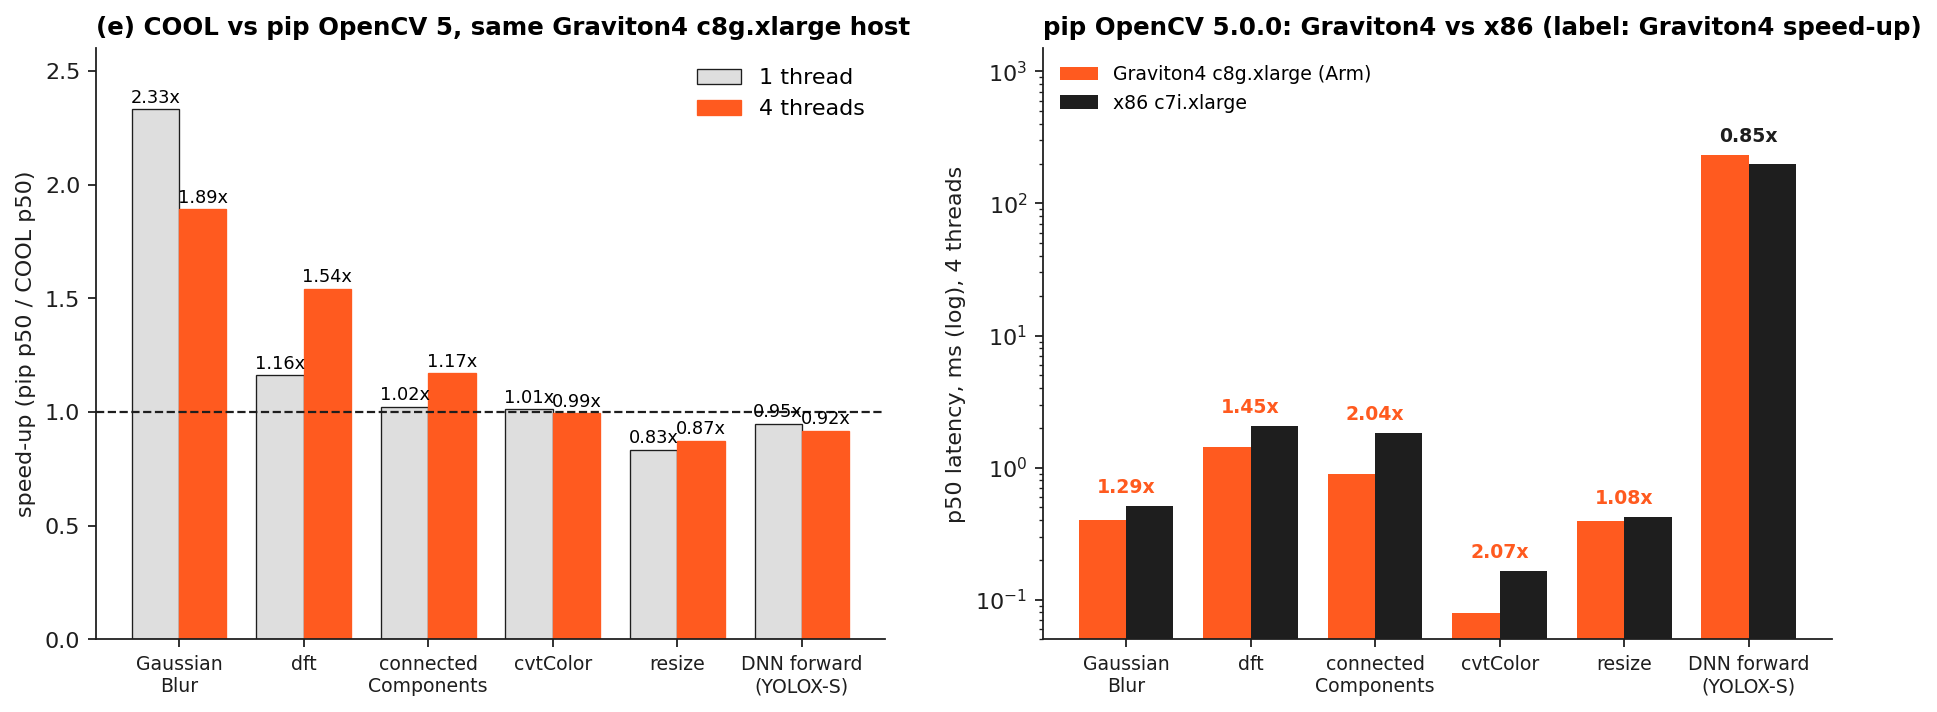
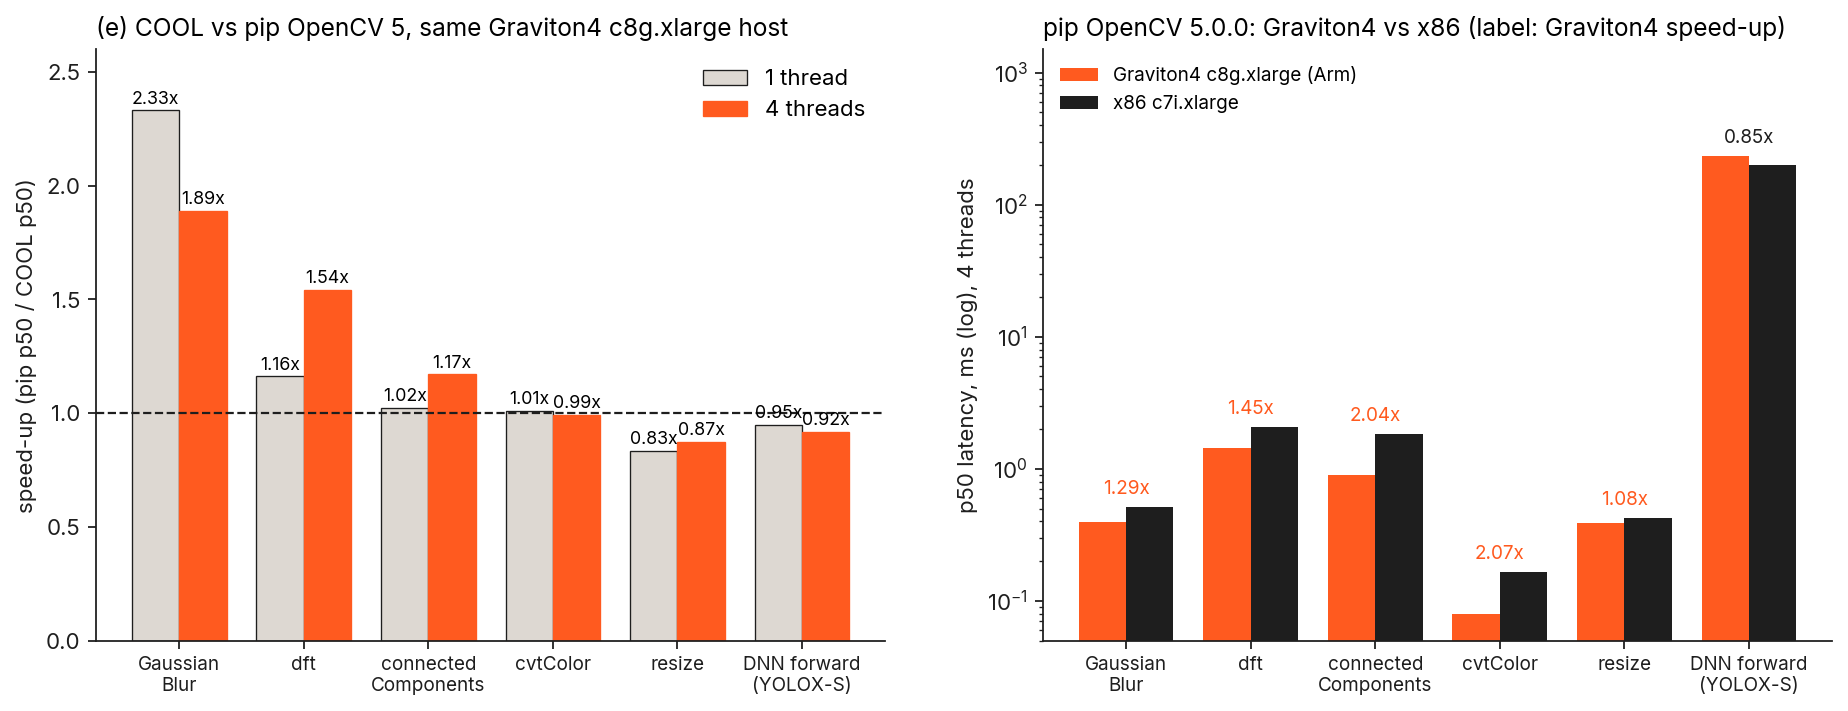
README figures redrawn on white with Inter labels in the site orange; hero uses the same busiest no-drone patch as figure b (score 8); figure c names DarwinFPV Cineape20 (GER)

diff --git a/docs/figures/make_figures.py b/docs/figures/make_figures.py
@@ -19,7 +19,7 @@ HUM, INK, GREY, SOFT, BLUE = "#FF5A1F", "#1E1E1E", "#8A847C", "#DDD8D2", "#2E5AA
 PALE, DEEP, PAPER = "#FFB596", "#B8400F", "#F3F1EE"
 DEMO, DEMO_T, DEMO_FRAME = "clear_mini2_seq202", 1.767, 14
 plt.rcParams.update({
-    "font.family": "DejaVu Sans", "font.size": 10, "axes.edgecolor": INK, "axes.labelcolor": INK,
+    "font.family": ["Inter", "Arial", "DejaVu Sans"], "font.size": 10, "axes.edgecolor": INK, "axes.labelcolor": INK,
     "xtick.color": INK, "ytick.color": INK, "axes.spines.top": False, "axes.spines.right": False,
     "axes.titleweight": "bold", "axes.titlesize": 11, "axes.titlelocation": "left", "figure.facecolor": "white",
     "savefig.facecolor": "white", "legend.frameon": False, "axes.grid": False, "figure.titleweight": "bold",
@@ -124,7 +124,7 @@ def cloud(ax, w, box, color, title):
     ax.set_box_aspect((2.2, 1, 0.75), zoom=1.3)
     ax.set_title(title, fontsize=9.5, loc="center", fontweight="bold", y=0.93)
     for a in (ax.xaxis, ax.yaxis, ax.zaxis):
-        a.pane.set_facecolor(PAPER)
+        a.pane.set_facecolor("white")
         a.pane.set_edgecolor(SOFT)
         a._axinfo["grid"]["linewidth"] = 0
     ax.view_init(elev=18, azim=-72)
@@ -161,6 +161,9 @@ def fig_events():
     return {"drone": [rd["peak_hz"], rd["snr"]], "bg": [rb["peak_hz"], rb["snr"]], "bg_box": bg}
 
 
+MODEL_NAME = {"DarwinFPV cineape20ger": "DarwinFPV Cineape20 (GER)", "DarwinFPV cineape20": "DarwinFPV Cineape20"}
+
+
 def fig_models():
     pm = load("results/engine/per_model_youden.json")
     pp = {}
@@ -176,7 +179,7 @@ def fig_models():
         ax.text(r["iqr"][1] + 12, i, f"{r['median_hz']:.0f} Hz   n = {r['n_boxes']:,} boxes, {r['share_above_7.86'] * 100:.1f}% scored", va="center", fontsize=8.5)
         if m in pp:
             ax.plot(pp[m], i, "D", mfc="white", mec=INK, mew=1.6, ms=8, zorder=4)
-    ax.set_yticks(range(len(rows)), [m for m, _ in rows])
+    ax.set_yticks(range(len(rows)), [MODEL_NAME.get(m, m) for m, _ in rows])
     ax.plot([], [], "o", color=HUM, label="Frequency Vision median (bar: IQR), FRED test")
     ax.plot([], [], "D", mfc="white", mec=INK, label="PropPulse / DENSE-CUAS published median")
     ax.set(xlabel="blade-pass frequency (Hz)", xlim=(150, 1150))
@@ -408,11 +411,12 @@ def fig_hero():
     c, ev, origin, fr, box, other, t0, t1 = demo_window()
     img = cv.cvtColor(cv.imread(str(ROOT / "app/static" / fr["src"])), cv.COLOR_BGR2RGB)
     s = img.shape[1] / c["width"]
+    other = busiest_patch(ev, box, t0, t1)
     rd, ro = freq.box_spectrum(ev, box, t0, t1), freq.box_spectrum(ev, other, t0, t1)
     hz = c["hum"]["median_hz"]
-    LIGHT = "#F3F1EE"
+    LIGHT = INK
     fig = plt.figure(figsize=(10, 4.375), dpi=160)
-    fig.patch.set_facecolor(INK)
+    fig.patch.set_facecolor("white")
     ax = fig.add_axes([0.03, 0.2, 0.48, 0.48 * 10 / 4.375 * img.shape[0] / img.shape[1]])
     ax.imshow(img)
     x0, y0, x1, y1 = [v * s for v in box]
@@ -433,7 +437,7 @@ def fig_hero():
     fig.text(0.03, 0.9, "What a 30 fps camera sees", color=LIGHT, fontsize=15, fontweight="bold")
     fig.text(0.03, 0.835, "A drone or a bird? The rotors are a blur.", color=GREY, fontsize=10.5)
     bx = fig.add_axes([0.6, 0.24, 0.37, 0.52])
-    bx.set_facecolor(INK)
+    bx.set_facecolor("white")
     for r, col, lw in ((ro, GREY, 1.4), (rd, HUM, 2.2)):
         k = (r["freqs"] >= 50) & (r["freqs"] <= 1000)
         band = (r["freqs"] >= freq.BAND[0]) & (r["freqs"] <= freq.BAND[1])
@@ -456,7 +460,7 @@ def fig_hero():
     fig.text(0.03, 0.03, f"Real FRED test sequence {c['seq']}, DJI Mini 2. Spectrum of 100 ms of events in the drone box (cv.calcHist + cv.dft): "
              f"peak {rd['peak_hz']:.1f} Hz, score {rd['snr']:,.0f}.\nGrey: busiest patch with no drone, score {ro['snr']:,.0f}. "
              f"Clip median {hz:.0f} Hz over {c['hum']['n_windows']} windows of 100 ms.", color=GREY, fontsize=7.6, linespacing=1.5)
-    fig.savefig(OUT / "hero.png", dpi=160, facecolor=INK)
+    fig.savefig(OUT / "hero.png", dpi=160, facecolor="white")
     plt.close(fig)
     print("wrote hero.png", round(rd["peak_hz"], 1), round(rd["snr"]), round(ro["peak_hz"], 1), round(ro["snr"], 1))
 
